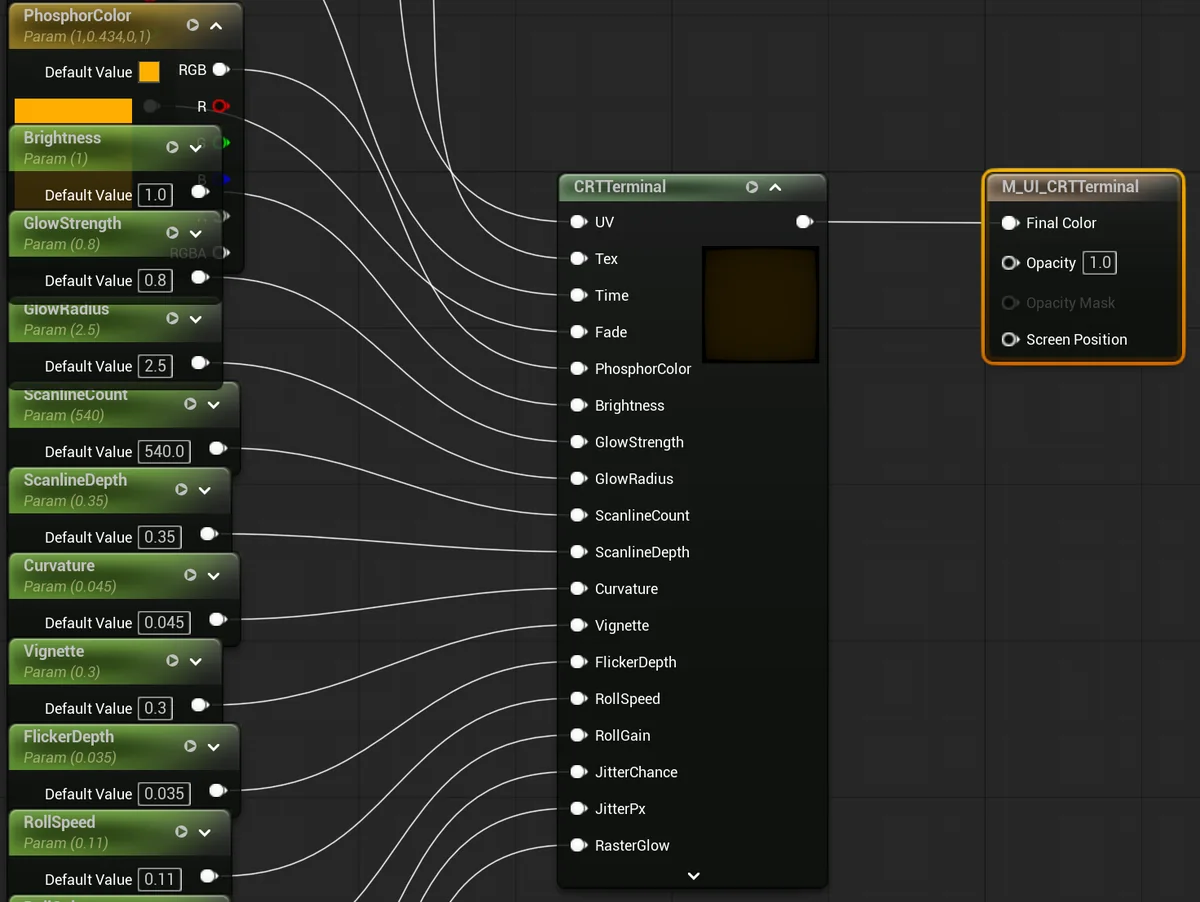
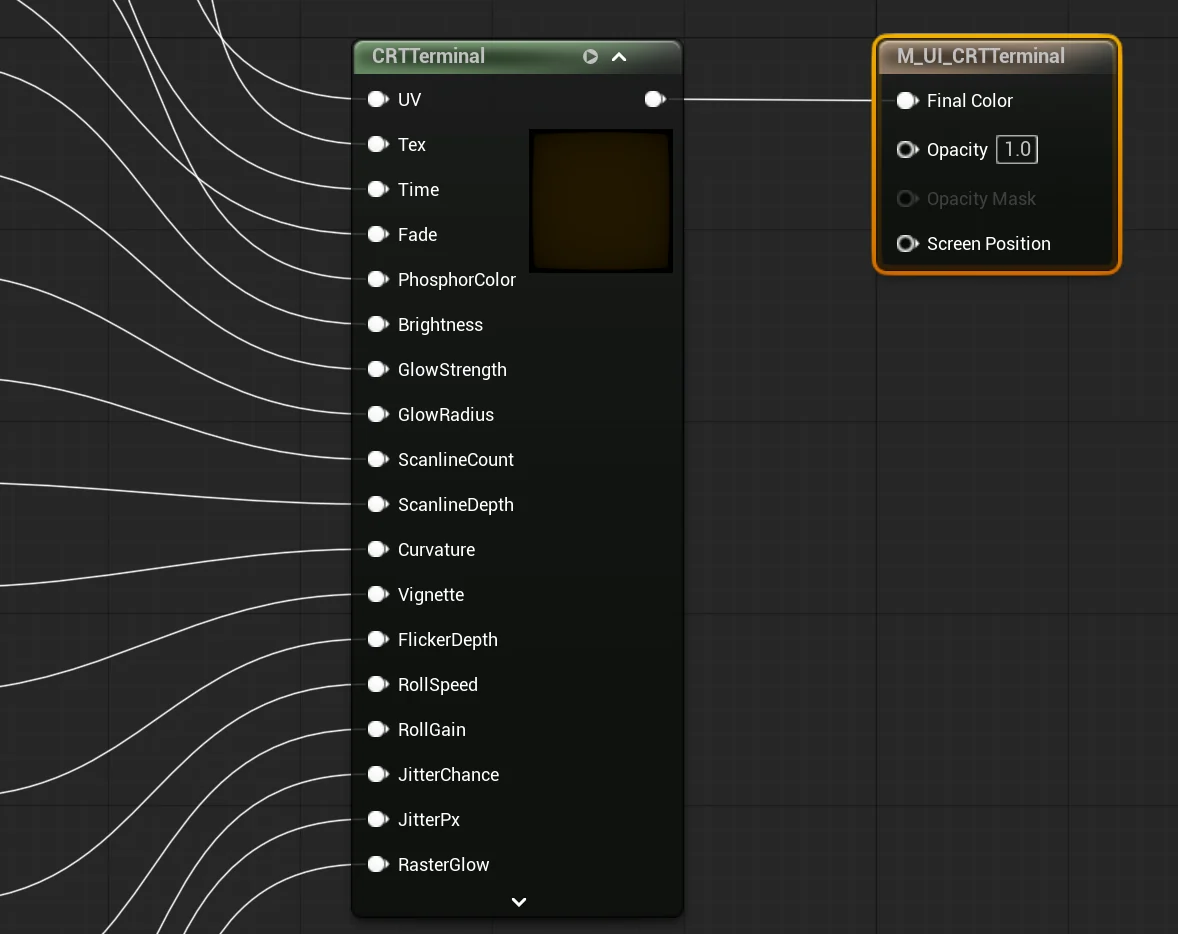
fix(website): settings menu for widgets, no overlapping material graphs
Widgets shows the game's settings menu instead of the title menu. Materials
crops the CRT graph to its custom node so the overlapping parameter nodes
stay out of frame, and the post-process tile (also overlapping) becomes a
Blueprint that sets material parameters at runtime.

Claude-Session: https://claude.ai/code/session_01NAEDAQCHx37xX9s2VoTS7Z

Changed region(s): [[0.0, 0.0, 1.0, 1.0]]

diff --git a/website/index.html b/website/index.html
@@ -180,10 +180,10 @@
           <figcaption>Blueprint: character animation</figcaption>
         </figure>
         <figure class="media">
-          <a class="graph-link" href="assets/media/graphs/material-postprocess-full.webp" target="_blank" rel="noopener">
-            <img src="assets/media/graphs/material-postprocess.webp" width="900" height="600" loading="lazy" decoding="async"
-                 alt="A post-process material: scalar parameters wired into one custom node that drives emissive color"></a>
-          <figcaption>Material: post-process vision</figcaption>
+          <a class="graph-link" href="assets/media/graphs/blueprint-material-params-full.webp" target="_blank" rel="noopener">
+            <img src="assets/media/graphs/blueprint-material-params.webp" width="690" height="460" loading="lazy" decoding="async"
+                 alt="A Blueprint setup function: a dynamic material instance, then a chain of Set Scalar Parameter Value calls"></a>
+          <figcaption>Blueprint: material parameters at runtime</figcaption>
         </figure>
       </div>
 
@@ -257,9 +257,9 @@
       <p>Build UMG widget trees, bind them to data, and render them to PNG so the agent can check the layout it made.</p>
       <p class="tools"><code>ui_build_tree</code>, <code>ui_bind_property</code>, <code>ui_render_widget_to_png</code></p>
       <figure class="media">
-        <img src="assets/media/cap-widget-render.webp" width="1280" height="720" loading="lazy" decoding="async"
-             alt="A game title menu with Continue, Begin, Settings and Quit beside a calligraphic emblem">
-        <figcaption>The game's title menu, a UMG widget built by an agent through Hayba.</figcaption>
+        <img src="assets/media/cap-widget-settings.webp" width="1166" height="786" loading="lazy" decoding="async"
+             alt="A game settings menu: Display, Upscaling, Graphics, Audio and Accessibility tabs, with quality pickers and foliage sliders">
+        <figcaption>The game's settings menu, a UMG widget built by an agent through Hayba.</figcaption>
       </figure>
     </article>
   </div>
@@ -273,9 +273,8 @@
       <p>Author material graphs node by node, compile them, and validate the result before calling the work done.</p>
       <p class="tools"><code>material_add_node</code>, <code>material_compile</code>, <code>material_validate</code></p>
       <figure class="media">
-        <a class="graph-link" href="assets/media/graphs/material-crt-full.webp" target="_blank" rel="noopener">
-          <img src="assets/media/graphs/material-crt.webp" width="1200" height="902" loading="lazy" decoding="async"
-               alt="A CRT terminal material: phosphor color, glow, scanline, curvature and flicker parameters wired into one custom node"></a>
+        <img src="assets/media/graphs/material-crt.webp" width="1178" height="934" loading="lazy" decoding="async"
+             alt="A CRT terminal material: eighteen inputs, from phosphor color to scanlines and flicker, wired into one custom node">
         <figcaption>The game's CRT terminal material, scripted through Hayba's Python bridge and compiled with <code>material_compile</code>.</figcaption>
       </figure>
     </article>
